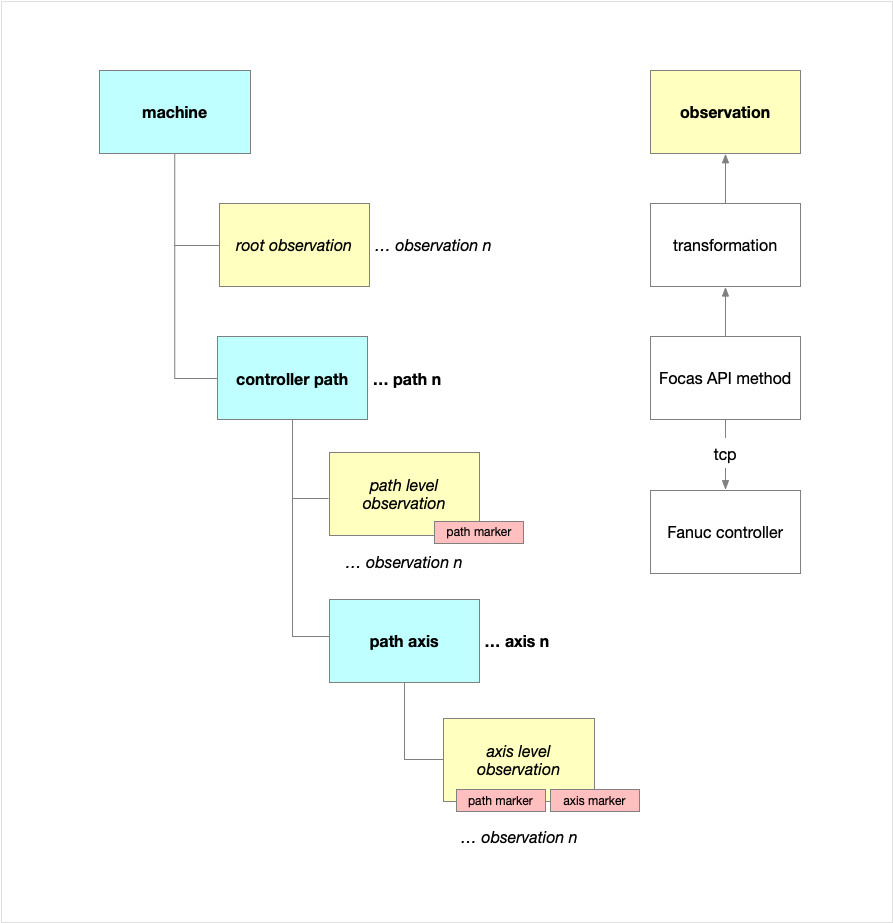
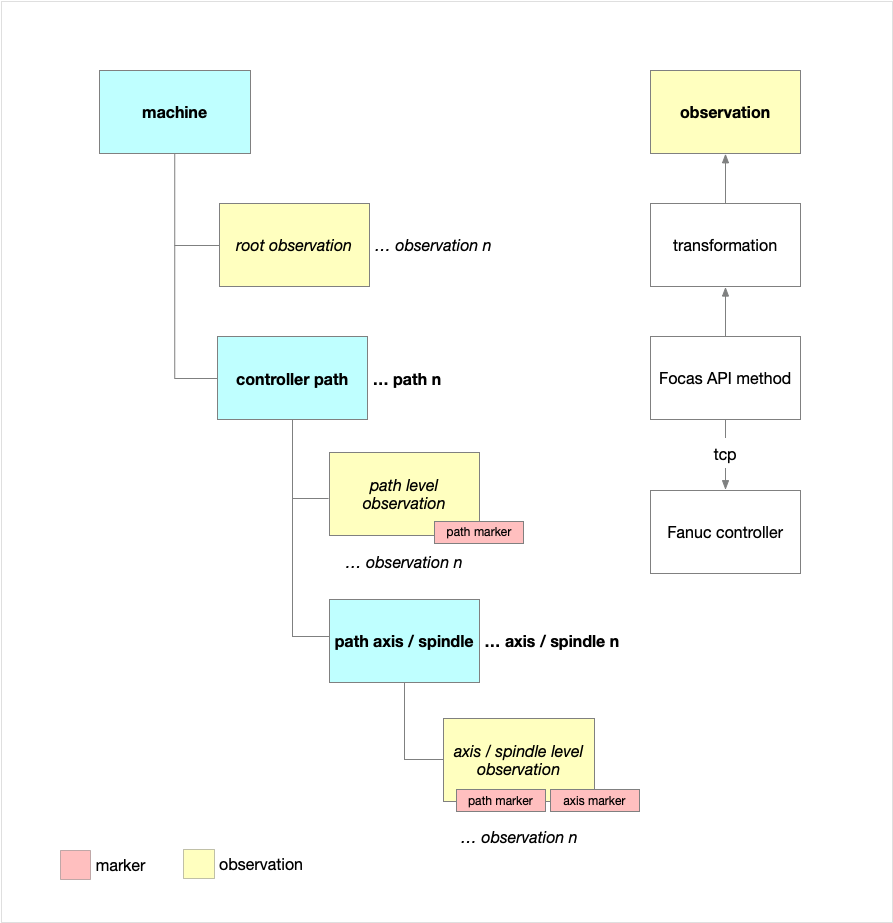
* docs

diff --git a/fanuc/collectors/Basic.cs b/fanuc/collectors/Basic.cs
@@ -14,7 +14,7 @@ namespace fanuc.collectors
         
         public override void Initialize()
         {
-            while (!_machine.VeneersCreated)
+            while (!_machine.VeneersApplied)
             {
                 Console.WriteLine("fanuc - creating veneers");
 
@@ -23,9 +23,9 @@ namespace fanuc.collectors
 
                 if (connect.success)
                 {
-                    _machine.AddVeneer(typeof(fanuc.veneers.Connect), "connect");
-                    _machine.AddVeneer(typeof(fanuc.veneers.SysInfo), "sys_info");
-                    _machine.AddVeneer(typeof(fanuc.veneers.GetPath), "get_path");
+                    _machine.ApplyVeneer(typeof(fanuc.veneers.Connect), "connect");
+                    _machine.ApplyVeneer(typeof(fanuc.veneers.SysInfo), "sys_info");
+                    _machine.ApplyVeneer(typeof(fanuc.veneers.GetPath), "get_path");
 
                     dynamic paths = _machine.Platform.GetPath();
 
@@ -34,12 +34,12 @@ namespace fanuc.collectors
 
                     _machine.SliceVeneer(path_slices.ToArray());
 
-                    _machine.AddVeneerAcrossSlices(typeof(fanuc.veneers.RdAxisname), "axis_name");
-                    _machine.AddVeneerAcrossSlices(typeof(fanuc.veneers.StatInfo), "stat_info");
-                    _machine.AddVeneerAcrossSlices(typeof(fanuc.veneers.Alarms), "alarms");
-                    _machine.AddVeneerAcrossSlices(typeof(fanuc.veneers.OpMsgs), "op_msgs");
-                    _machine.AddVeneerAcrossSlices(typeof(fanuc.veneers.Block), "code_block");
-                    _machine.AddVeneerAcrossSlices(typeof(fanuc.veneers.RdParamLData), "part_count");
+                    _machine.ApplyVeneerAcrossSlices(typeof(fanuc.veneers.RdAxisname), "axis_name");
+                    _machine.ApplyVeneerAcrossSlices(typeof(fanuc.veneers.StatInfo), "stat_info");
+                    _machine.ApplyVeneerAcrossSlices(typeof(fanuc.veneers.Alarms), "alarms");
+                    _machine.ApplyVeneerAcrossSlices(typeof(fanuc.veneers.OpMsgs), "op_msgs");
+                    _machine.ApplyVeneerAcrossSlices(typeof(fanuc.veneers.Block), "code_block");
+                    _machine.ApplyVeneerAcrossSlices(typeof(fanuc.veneers.RdParamLData), "part_count");
 
                     for (short current_path = paths.response.cnc_getpath.path_no;
                         current_path <= paths.response.cnc_getpath.maxpath_no;
@@ -58,11 +58,11 @@ namespace fanuc.collectors
 
                         _machine.SliceVeneer(current_path, axis_slices.ToArray());
 
-                        _machine.AddVeneerAcrossSlices(current_path, typeof(fanuc.veneers.RdDynamic2), "axis_data");
+                        _machine.ApplyVeneerAcrossSlices(current_path, typeof(fanuc.veneers.RdDynamic2), "axis_data");
                     }
 
                     dynamic disconnect = _machine.Platform.Disconnect();
-                    _machine.VeneersCreated = true;
+                    _machine.VeneersApplied = true;
 
                     Console.WriteLine("fanuc - created veneers");
                 }

diff --git a/fanuc/collectors/Info1.cs b/fanuc/collectors/Info1.cs
@@ -14,7 +14,7 @@ namespace fanuc.collectors
         
         public override void Initialize()
         {
-            while (!_machine.VeneersCreated)
+            while (!_machine.VeneersApplied)
             {
                 Console.WriteLine("fanuc - creating veneers");
 
@@ -23,11 +23,11 @@ namespace fanuc.collectors
 
                 if (connect.success)
                 {
-                    _machine.AddVeneer(typeof(fanuc.veneers.Connect), "connect");
-                    _machine.AddVeneer(typeof(fanuc.veneers.SysInfo), "sys_info");
+                    _machine.ApplyVeneer(typeof(fanuc.veneers.Connect), "connect");
+                    _machine.ApplyVeneer(typeof(fanuc.veneers.SysInfo), "sys_info");
                     
                     dynamic disconnect = _machine.Platform.Disconnect();
-                    _machine.VeneersCreated = true;
+                    _machine.VeneersApplied = true;
 
                     Console.WriteLine("fanuc - created veneers");
                 }

diff --git a/fanuc/collectors/Info_MachineVsVeneer.cs b/fanuc/collectors/Info_MachineVsVeneer.cs
@@ -14,7 +14,7 @@ namespace fanuc.collectors
         
         public override void Initialize()
         {
-            while (!_machine.VeneersCreated)
+            while (!_machine.VeneersApplied)
             {
                 Console.WriteLine("fanuc - creating veneers");
 
@@ -23,11 +23,11 @@ namespace fanuc.collectors
 
                 if (connect.success)
                 {
-                    _machine.AddVeneer(typeof(fanuc.veneers.Connect), "connect");
-                    _machine.AddVeneer(typeof(fanuc.veneers.SysInfo), "sys_info");
+                    _machine.ApplyVeneer(typeof(fanuc.veneers.Connect), "connect");
+                    _machine.ApplyVeneer(typeof(fanuc.veneers.SysInfo), "sys_info");
                     
                     dynamic disconnect = _machine.Platform.Disconnect();
-                    _machine.VeneersCreated = true;
+                    _machine.VeneersApplied = true;
 
                     Console.WriteLine("fanuc - created veneers");
                 }

diff --git a/fanuc/Machine.cs b/fanuc/Machine.cs
@@ -120,9 +120,9 @@ namespace fanuc
             _collector.Collect();
         }
         
-        public bool VeneersCreated { get; set; }
+        public bool VeneersApplied { get; set; }
 
-        public void AddVeneer(Type type, string note)
+        public void ApplyVeneer(Type type, string note)
         {
             _veneers.Add(type, note);
         }
@@ -137,12 +137,12 @@ namespace fanuc
             _veneers.Slice(sliceKey, split);
         }
 
-        public void AddVeneerAcrossSlices(Type type, string note)
+        public void ApplyVeneerAcrossSlices(Type type, string note)
         {
             _veneers.AddAcrossSlices(type, note);
         }
         
-        public void AddVeneerAcrossSlices(dynamic sliceKey, Type type, string note)
+        public void ApplyVeneerAcrossSlices(dynamic sliceKey, Type type, string note)
         {
             _veneers.AddAcrossSlices(sliceKey, type, note);
         }

diff --git a/fanuc/Program.cs b/fanuc/Program.cs
@@ -1,17 +1,13 @@
 using System;
 using System.Collections.Generic;
 using System.IO;
-using System.Linq;
-using System.Runtime.Loader;
 using System.Threading;
 using fanuc.veneers;
 using MQTTnet;
-using MQTTnet.Client;
 using MQTTnet.Client.Options;
 using Newtonsoft.Json.Linq;
 using YamlDotNet.Serialization;
 using YamlDotNet.Serialization.NamingConventions;
-using YamlDotNet.Serialization.TypeResolvers;
 
 namespace fanuc
 {

diff --git a/README.md b/README.md
@@ -15,7 +15,7 @@ fanuc/{machine-id}/{observation-name}/{controller-execution-path-number}
 ```
 
 ```
-fanuc/{machine-id}/{observation-name}/{controller-execution-path-number}/{machine-axis-name}
+fanuc/{machine-id}/{observation-name}/{controller-execution-path-number}/{machine-axis-name / machine-spindle-name}
 ```
 
 ```
@@ -26,9 +26,9 @@ fanuc/{machine-id}/PING
 
 Data deltas are published to MQTT broker as retained messages.  This means that any newly connected client will only receive the latest data for each observation.
 
-`cnc_sysinfo` example.
+Below is an example of native `cnc_sysinfo` invocation response data and the corresponding `sys_info` observation transformed data.
 
-Native source:
+Native data:
 
 ```
 {
@@ -119,12 +119,50 @@ A `Machine` instance includes:
 
 ### Collectors
 
-// TODO
+A `Collector` is a strategy to apply and peel veneers to reveal observations in near real-time.
 
 ### Veneers
 
-// TODO
+A `Veneer` is a thin transformation layer.  When peeled, each veneer reveals an observation.  Veneers can be applied/peeled as a whole.  Veneers can be sliced and applied/peeled across logical boundaries.  Atomic values should be used for slicing veneers as they are used to form the MQTT topic.  Sliced veneers must be marked before peeling in order to understand their logical placement downstream.
 
+### Veneering
+
+The act of applying veneers in a logical manner.
+
+![fanuc-driver_veneering](docs/fanuc-driver_veneering.png)
+
+### Peeling
+
+The act of peeling veneers to reveal observations.
+
+![fanuc-driver_peeling](docs/fanuc-driver_peeling.png)
+
+## Configuration
+
+The `config.yml` file contains runtime information about the MQTT broker and each Focas endpoint.
+
+```
+broker:
+  net_ip: 10.20.30.102
+  net_port: !!int 1883
+
+machines:
+  - id: sim
+    enabled: !!bool true
+    net_ip: 10.20.30.101
+    net_port: !!int 8193
+    net_timeout_s: !!int 2
+    strategy_type: fanuc.collectors.Basic, fanuc
+    sweep_ms: !!int 1000
+
+  - id: naka
+    enabled: !!bool false
+    net_ip: 172.16.13.100
+    net_port: !!int 8193
+    net_timeout_s: !!int 2
+    strategy_type: fanuc.collectors.Basic, fanuc
+    sweep_ms: !!int 1000
+```
 
 ## Building and Running
 
